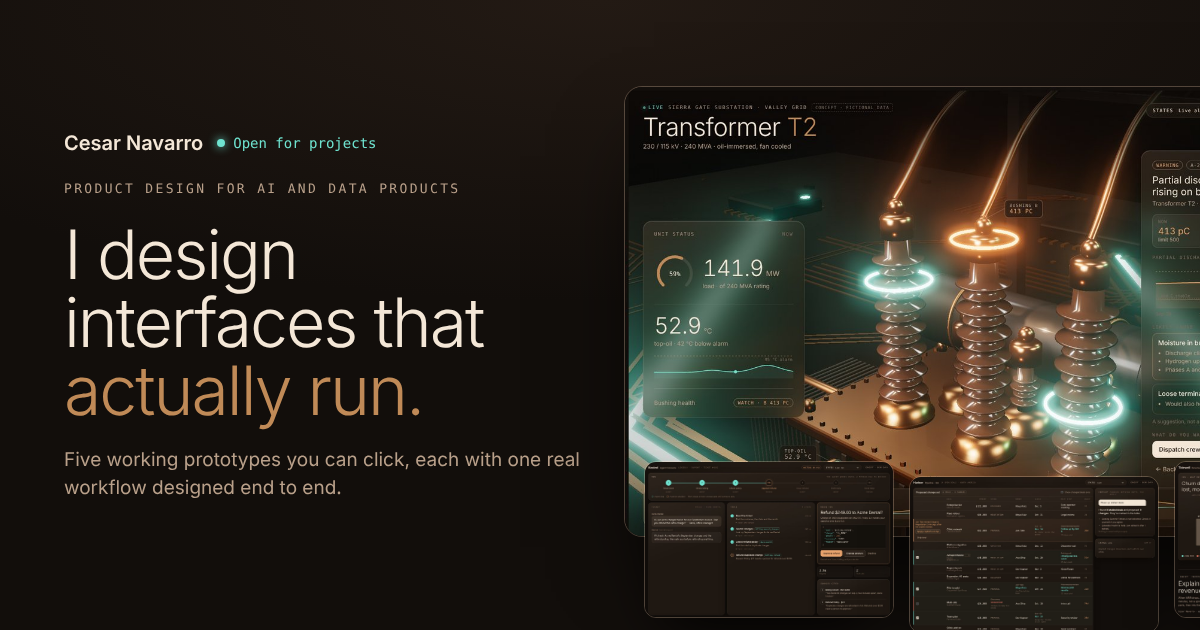
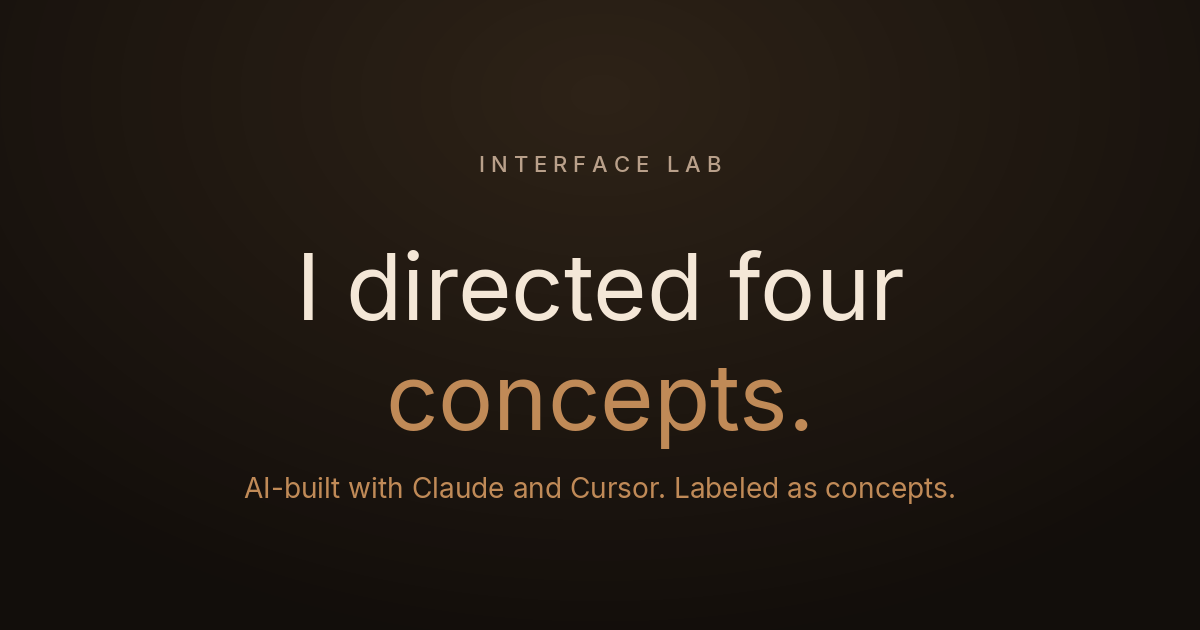
Align Interface Lab wording with the résumé's four directed concepts.
Decision OS stays on the site as an additional AI-built concept, outside that count. Credits now say the pieces were built with AI tools Cesar directed.

diff --git a/index.html b/index.html
@@ -4,23 +4,23 @@
 <meta charset="utf-8">
 <meta name="viewport" content="width=device-width, initial-scale=1, viewport-fit=cover">
 <title>Cesar Navarro · Interface Lab</title>
-<meta name="description" content="Cesar Navarro designs interfaces for AI and data products. Every case study is a working prototype you can click.">
+<meta name="description" content="Cesar Navarro directed four interactive workflow concepts on fictional data, AI-built with Claude and Cursor, with AI-assisted QA. Labeled as concepts.">
 <meta name="theme-color" content="#0F0C0A">
 <link rel="icon" href="favicon.svg" type="image/svg+xml">
 <meta property="og:type" content="website">
 <meta property="og:site_name" content="Cesar Navarro · Interface Lab">
 <meta property="og:title" content="Cesar Navarro · Interface Lab">
-<meta property="og:description" content="Cesar Navarro designs interfaces for AI and data products. Every case study is a working prototype you can click.">
+<meta property="og:description" content="Cesar Navarro directed four interactive workflow concepts on fictional data, AI-built with Claude and Cursor, with AI-assisted QA. Labeled as concepts.">
 <meta property="og:url" content="https://canaca.github.io/interface-lab/">
 <meta property="og:image" content="https://canaca.github.io/interface-lab/og-image.png">
-<meta property="og:image:alt" content="Cesar Navarro: I design interfaces that actually run, with five working prototypes">
+<meta property="og:image:alt" content="Cesar Navarro directed four interactive workflow concepts on fictional data. AI-built, labeled as concepts.">
 <meta property="og:image:width" content="1200">
 <meta property="og:image:height" content="630">
 <meta name="twitter:card" content="summary_large_image">
 <meta name="twitter:title" content="Cesar Navarro · Interface Lab">
-<meta name="twitter:description" content="Cesar Navarro designs interfaces for AI and data products. Every case study is a working prototype you can click.">
+<meta name="twitter:description" content="Cesar Navarro directed four interactive workflow concepts on fictional data, AI-built with Claude and Cursor, with AI-assisted QA. Labeled as concepts.">
 <meta name="twitter:image" content="https://canaca.github.io/interface-lab/og-image.png">
-<meta name="twitter:image:alt" content="Cesar Navarro: I design interfaces that actually run, with five working prototypes">
+<meta name="twitter:image:alt" content="Cesar Navarro directed four interactive workflow concepts on fictional data. AI-built, labeled as concepts.">
 <style>[hidden]{display:none!important}body{margin:0;background:#0F0C0A}</style>
 <link rel="preconnect" href="https://fonts.googleapis.com">
 <link rel="preconnect" href="https://fonts.gstatic.com" crossorigin>
@@ -113,7 +113,7 @@ pre.code .k{color:var(--accent)} pre.code .s{color:var(--cream)} pre.code .n{col
 @media (max-width:900px){.cs{grid-template-columns:minmax(0,1fr)}.cs dl{grid-template-columns:1fr}.cs dt{padding-top:0}}
 @media (prefers-reduced-motion:reduce){*{animation:none!important;transition:none!important}}
 
-/* Layout: thesis, then the work (Valley Grid featured, four cards), how I work, offers, contact. Same warm dark system as the prototypes. */
+/* Layout: thesis, then the work (Valley Grid featured, four cards), how I work, offers, contact. Same warm dark system as the concepts. */
 .hub>main{display:flex;flex-direction:column;gap:inherit}
 .hub{max-width:1240px;margin:0 auto;padding-inline:20px;padding-block:24px 48px;display:flex;flex-direction:column;gap:88px}
 nav{display:flex;align-items:center;gap:16px;flex-wrap:wrap;font-family:var(--mono);font-size:11.5px;color:var(--muted)}
@@ -228,53 +228,53 @@ details.csd dd{margin:0;color:var(--muted)}
 
   <main>
   <header class="hero">
-    <span class="eyebrow">Product design for AI and data products</span>
-    <h1>I design interfaces that <span>actually run.</span></h1>
-    <p>Every project below is a working prototype you can click, with one real workflow designed end to end, including the empty, loading and error states. Each is labeled honestly as a concept or a working build.</p>
+    <span class="eyebrow">Directed concept work for AI and data products</span>
+    <h1>I directed four <span>concepts.</span></h1>
+    <p>Four interactive workflow concepts on fictional data: Kestrel (AI support agent), Harbor (CRM deal cleanup), Valley Grid (utility operations), and Tidewell (SaaS revenue analytics). AI-built with Claude and Cursor, with AI-assisted QA, and labeled as concepts. Decision OS is an additional concept, outside that count.</p>
     <div class="cta"><a class="btn pri" href="#work">See the work</a><a class="btn" href="#contact">Start a project</a></div>
   </header>
 
   <section id="work">
-    <div class="sechead"><h2>Work</h2><span>Concept: fictional data, real working interface. Working build: a real product in development.</span></div>
+    <div class="sechead"><h2>Work</h2><span>Four concepts on fictional data, AI-built and labeled as concepts. Also in the lab is outside that count.</span></div>
     <article class="feature">
-      <a class="shot" href="valley-grid/" aria-label="Open prototype: Valley Grid, grid operations"><img src="img/grid-workflow.jpg" alt="Valley Grid: an operator investigates bushing B on a live 3D transformer" width="1200" height="750"><span class="go">Open prototype <span aria-hidden="true">↗</span></span></a>
+      <a class="shot" href="valley-grid/" aria-label="Open concept: Valley Grid, grid operations"><img src="img/grid-workflow.jpg" alt="Valley Grid: an operator investigates bushing B on a live 3D transformer" width="1200" height="750"><span class="go">Open concept <span aria-hidden="true">↗</span></span></a>
       <div class="info">
         <div class="kindrow"><span class="tag">Concept</span><span class="kind">Grid operations · live 3D</span></div>
         <h3>Helping grid operators act on an equipment alert</h3>
         <p class="value">From first warning to a crew on site, on a 3D model of the equipment itself.</p>
-        <dl class="meta"><div><dt>Role</dt><dd>Concept direction</dd></div><div><dt>Tools</dt><dd>AI-assisted build (Claude, Cursor)</dd></div></dl>
+        <dl class="meta"><div><dt>Role</dt><dd>Concept direction</dd></div><div><dt>Tools</dt><dd>Built with AI tools (Claude, Cursor), directed by Cesar · Blender scripts AI-generated</dd></div></dl>
         <details class="csd"><summary>Read the case study</summary><dl>
           <dt>Problem</dt><dd>Grid operators get alarms with numbers but no context, so deciding whether to send a crew means jumping between screens and phone calls.</dd>
           <dt>User</dt><dd>A control-room operator on shift, responsible for nine substations.</dd>
-          <dt>Decisions</dt><dd>The equipment is the interface. One panel holds the whole path. Evidence comes before advice. Every action confirms before it sends. Every state is designed.</dd>
-          <dt>Outcome</dt><dd>A working prototype of the full alert workflow, with a live 3D scene built with AI-assisted tooling (Claude, Cursor) running in the browser and a 15-second film mode. Not tested with real operators or live data.</dd>
+          <dt>Decisions</dt><dd>The equipment is the interface. One panel holds the whole path. Evidence comes before advice. Every action confirms before it sends. Every state is included.</dd>
+          <dt>Outcome</dt><dd>An AI-built concept of the full alert workflow, with a live 3D scene from AI tools (Claude, Cursor) running in the browser and a 15-second film mode. Blender scripts are AI-generated. Not tested with real operators or live data.</dd>
           <dt>Label</dt><dd>Concept. Fictional data, people and substation.</dd></dl></details>
       </div>
     </article>
     <div class="grid">
       <article class="proj">
-        <a class="shot" href="kestrel/" aria-label="Prototype + case study: Kestrel, AI agent console"><img src="img/kestrel.jpg" alt="Kestrel: an agent run paused at the refund approval gate" loading="lazy" width="1200" height="750"><span class="go">Prototype + case study <span aria-hidden="true">↗</span></span></a>
+        <a class="shot" href="kestrel/" aria-label="Concept + case study: Kestrel, AI agent console"><img src="img/kestrel.jpg" alt="Kestrel: an agent run paused at the refund approval gate" loading="lazy" width="1200" height="750"><span class="go">Concept + case study <span aria-hidden="true">↗</span></span></a>
         <div class="info"><div class="kindrow"><span class="tag">Concept</span><span class="kind">AI agent interface</span></div>
           <h3>Letting support teams trust an AI agent with refunds</h3><p class="value">The agent does the research. A person approves the money and the message.</p>
-          <dl class="meta"><div><dt>Role</dt><dd>Concept direction</dd></div><div><dt>Tools</dt><dd>HTML, CSS, JavaScript</dd></div></dl></div>
+          <dl class="meta"><div><dt>Role</dt><dd>Concept direction</dd></div><div><dt>Tools</dt><dd>Built with AI tools (Claude, Cursor), directed by Cesar · HTML, CSS, JavaScript, no build step</dd></div></dl></div>
       </article>
       <article class="proj">
-        <a class="shot" href="decision-os/" aria-label="Demo + case study: Decision OS, working build"><img src="img/dos.jpg" alt="Decision OS: imported items placed on The Chart" loading="lazy" width="1200" height="750"><span class="go">Demo + case study <span aria-hidden="true">↗</span></span></a>
-        <div class="info"><div class="kindrow"><span class="tag build">Working build</span><span class="kind">AI operating system</span></div>
+        <a class="shot" href="decision-os/" aria-label="Concept + case study: Decision OS, also in the lab"><img src="img/dos.jpg" alt="Decision OS: imported items placed on The Chart" loading="lazy" width="1200" height="750"><span class="go">Concept + case study <span aria-hidden="true">↗</span></span></a>
+        <div class="info"><div class="kindrow"><span class="tag build">Also in the lab</span><span class="kind">Additional concept · fictional data</span></div>
           <h3>Showing a founder where everything stands, without digging through chat</h3><p class="value">Turns ChatGPT history into current state: what you hold, what you wait on, what's decided.</p>
-          <dl class="meta"><div><dt>Role</dt><dd>Product owner, design direction</dd></div><div><dt>Status</dt><dd>ChatGPT import works. The Chart approved. Not in production. Demo uses fictional data.</dd></div></dl></div>
+          <dl class="meta"><div><dt>Role</dt><dd>Concept direction</dd></div><div><dt>Tools</dt><dd>Built with AI tools (Claude, Cursor), directed by Cesar · HTML, CSS, JavaScript, no build step</dd></div></dl></div>
       </article>
       <article class="proj">
-        <a class="shot" href="harbor-copilot/" aria-label="Prototype + case study: Harbor, CRM copilot"><img src="img/harbor.jpg" alt="Harbor: a proposed change set shown as diffs inside the deals table" loading="lazy" width="1200" height="750"><span class="go">Prototype + case study <span aria-hidden="true">↗</span></span></a>
+        <a class="shot" href="harbor-copilot/" aria-label="Concept + case study: Harbor, CRM copilot"><img src="img/harbor.jpg" alt="Harbor: a proposed change set shown as diffs inside the deals table" loading="lazy" width="1200" height="750"><span class="go">Concept + case study <span aria-hidden="true">↗</span></span></a>
         <div class="info"><div class="kindrow"><span class="tag">Concept</span><span class="kind">In-product AI copilot</span></div>
           <h3>Helping sales reps clean up stalled deals without losing control</h3><p class="value">Bulk changes from AI, reviewed in the table, with conflicts held and undo at every level.</p>
-          <dl class="meta"><div><dt>Role</dt><dd>Concept direction</dd></div><div><dt>Tools</dt><dd>HTML, CSS, JavaScript</dd></div></dl></div>
+          <dl class="meta"><div><dt>Role</dt><dd>Concept direction</dd></div><div><dt>Tools</dt><dd>Built with AI tools (Claude, Cursor), directed by Cesar · HTML, CSS, JavaScript, no build step</dd></div></dl></div>
       </article>
       <article class="proj">
-        <a class="shot" href="tidewell/" aria-label="Prototype + case study: Tidewell, revenue analytics"><img src="img/tidewell.jpg" alt="Tidewell: June's revenue drop broken into a waterfall" loading="lazy" width="1200" height="750"><span class="go">Prototype + case study <span aria-hidden="true">↗</span></span></a>
+        <a class="shot" href="tidewell/" aria-label="Concept + case study: Tidewell, revenue analytics"><img src="img/tidewell.jpg" alt="Tidewell: June's revenue drop broken into a waterfall" loading="lazy" width="1200" height="750"><span class="go">Concept + case study <span aria-hidden="true">↗</span></span></a>
         <div class="info"><div class="kindrow"><span class="tag">Concept</span><span class="kind">SaaS analytics</span></div>
           <h3>Explaining why monthly revenue moved</h3><p class="value">From "revenue fell" to the four accounts behind it and a win-back plan, in a few clicks.</p>
-          <dl class="meta"><div><dt>Role</dt><dd>Concept direction</dd></div><div><dt>Tools</dt><dd>HTML, SVG charts, JavaScript</dd></div></dl></div>
+          <dl class="meta"><div><dt>Role</dt><dd>Concept direction</dd></div><div><dt>Tools</dt><dd>Built with AI tools (Claude, Cursor), directed by Cesar · HTML, SVG charts, JavaScript, no build step</dd></div></dl></div>
       </article>
     </div>
   </section>

diff --git a/decision-os/index.html b/decision-os/index.html
@@ -4,13 +4,13 @@
 <meta charset="utf-8">
 <meta name="viewport" content="width=device-width, initial-scale=1, viewport-fit=cover">
 <title>Decision OS · Where everything stands</title>
-<meta name="description" content="Working build, shown with fictional demo data: import a sample ChatGPT export and see what you hold, wait on and have decided.">
+<meta name="description" content="Additional concept, outside the four workflow concepts. AI-built and directed by Cesar Navarro, on fictional data: import a sample ChatGPT export and see what you hold, wait on, and have decided.">
 <meta name="theme-color" content="#0F0C0A">
 <link rel="icon" href="../favicon.svg" type="image/svg+xml">
 <meta property="og:type" content="website">
 <meta property="og:site_name" content="Cesar Navarro · Interface Lab">
 <meta property="og:title" content="Decision OS · Where everything stands">
-<meta property="og:description" content="Working build, shown with fictional demo data: import a sample ChatGPT export and see what you hold, wait on and have decided.">
+<meta property="og:description" content="Additional concept, outside the four workflow concepts. AI-built and directed by Cesar Navarro, on fictional data: import a sample ChatGPT export and see what you hold, wait on, and have decided.">
 <meta property="og:url" content="https://canaca.github.io/interface-lab/decision-os/">
 <meta property="og:image" content="https://canaca.github.io/interface-lab/img/dos.jpg">
 <meta property="og:image:alt" content="Decision OS: imported items placed on The Chart">
@@ -18,7 +18,7 @@
 <meta property="og:image:height" content="750">
 <meta name="twitter:card" content="summary_large_image">
 <meta name="twitter:title" content="Decision OS · Where everything stands">
-<meta name="twitter:description" content="Working build, shown with fictional demo data: import a sample ChatGPT export and see what you hold, wait on and have decided.">
+<meta name="twitter:description" content="Additional concept, outside the four workflow concepts. AI-built and directed by Cesar Navarro, on fictional data: import a sample ChatGPT export and see what you hold, wait on, and have decided.">
 <meta name="twitter:image" content="https://canaca.github.io/interface-lab/img/dos.jpg">
 <meta name="twitter:image:alt" content="Decision OS: imported items placed on The Chart">
 <style>[hidden]{display:none!important}body{margin:0;background:#0F0C0A}</style>
@@ -172,7 +172,7 @@ body{background:var(--bg)}
     <div class="lenses" id="lenses" role="group" aria-label="Lens"><button data-l="attention" aria-pressed="true">Attention</button><button data-l="ceo" aria-pressed="false">CEO</button><button data-l="execution" aria-pressed="false">Execution</button><button data-l="network" aria-pressed="false">Network</button></div>
     <span class="sp"></span>
     <label class="tbtn">States <select id="demo" aria-label="Review a state"><option value="live">New workspace</option><option value="loading">Loading · import running</option><option value="partial">Error · some unreadable</option><option value="fail">Error · file won't open</option></select></label>
-    <span class="tag build">Working build · demo data</span>
+    <span class="tag build">Also in the lab · fictional data</span>
   </header>
 
   <p class="standing" id="standing" aria-live="polite"></p>
@@ -184,7 +184,7 @@ body{background:var(--bg)}
   </div>
 
   <section class="cs" aria-label="Case study">
-    <div><span class="tag build">Working build · not in production</span><h2>Showing a founder where everything stands, without digging through chat</h2>
+    <div><span class="tag build">Also in the lab · additional concept</span><h2>Showing a founder where everything stands, without digging through chat</h2>
       <p class="lede">Decision OS organizes work around current state: what you hold, what you're waiting on, and what's decided. This page is a demo of its import flow with fictional data.</p>
       <p class="contact" style="margin-top:20px">Cesar Navarro · <code>cnavarro.business@gmail.com</code></p></div>
     <dl>
@@ -196,11 +196,11 @@ body{background:var(--bg)}
         <li><b>Unknown is not none.</b> A missing value is shown as "not recorded," never as empty.</li>
         <li><b>Never merge for the user.</b> Possible duplicates are flagged and kept until the person decides.</li>
         <li><b>A fixed sentence, not generated text.</b> The Standing Sentence is built from set templates, with no scores or urgency.</li></ol></dd>
-      <dt>Outcome</dt><dd>The working build imports ChatGPT history. Its visual system, The Chart, was approved at Phase 9. It is not deployed to production.</dd>
-      <dt>Label</dt><dd>Working build. This page is a separate demo with fictional data, not the product.</dd>
+      <dt>Outcome</dt><dd>An AI-built concept that imports a fictional ChatGPT history sample onto The Chart. Directed by Cesar Navarro. Outside the four workflow concepts.</dd>
+      <dt>Label</dt><dd>Additional concept. Fictional data. AI-built and directed by Cesar Navarro. Outside the four workflow concepts on the hub.</dd>
     </dl>
   </section>
-  <div class="foot"><span>Interface Lab · Decision OS · demo of a working build</span><span>Product owner and design direction: Cesar Navarro</span></div>
+  <div class="foot"><span>Interface Lab · Decision OS · also in the lab</span><span>Built with AI tools (Claude, Cursor), directed by Cesar</span></div>
 </div>
 </main>
 <div class="toast" id="toast" role="status" aria-live="polite"><span id="toastMsg"></span></div>

diff --git a/harbor-copilot/index.html b/harbor-copilot/index.html
@@ -4,13 +4,13 @@
 <meta charset="utf-8">
 <meta name="viewport" content="width=device-width, initial-scale=1, viewport-fit=cover">
 <title>Harbor · Cleaning up stalled deals with AI</title>
-<meta name="description" content="Concept prototype: AI proposes bulk cleanup of stalled deals, shown as diffs in the table, with conflicts held and undo at every level.">
+<meta name="description" content="Directed concept, AI-built: AI proposes bulk cleanup of stalled deals, shown as diffs in the table, with conflicts held and undo at every level.">
 <meta name="theme-color" content="#0F0C0A">
 <link rel="icon" href="../favicon.svg" type="image/svg+xml">
 <meta property="og:type" content="website">
 <meta property="og:site_name" content="Cesar Navarro · Interface Lab">
 <meta property="og:title" content="Harbor · Cleaning up stalled deals with AI">
-<meta property="og:description" content="Concept prototype: AI proposes bulk cleanup of stalled deals, shown as diffs in the table, with conflicts held and undo at every level.">
+<meta property="og:description" content="Directed concept, AI-built: AI proposes bulk cleanup of stalled deals, shown as diffs in the table, with conflicts held and undo at every level.">
 <meta property="og:url" content="https://canaca.github.io/interface-lab/harbor-copilot/">
 <meta property="og:image" content="https://canaca.github.io/interface-lab/img/harbor.jpg">
 <meta property="og:image:alt" content="Harbor: proposed changes shown as diffs inside the deals table">
@@ -18,7 +18,7 @@
 <meta property="og:image:height" content="750">
 <meta name="twitter:card" content="summary_large_image">
 <meta name="twitter:title" content="Harbor · Cleaning up stalled deals with AI">
-<meta name="twitter:description" content="Concept prototype: AI proposes bulk cleanup of stalled deals, shown as diffs in the table, with conflicts held and undo at every level.">
+<meta name="twitter:description" content="Directed concept, AI-built: AI proposes bulk cleanup of stalled deals, shown as diffs in the table, with conflicts held and undo at every level.">
 <meta name="twitter:image" content="https://canaca.github.io/interface-lab/img/harbor.jpg">
 <meta name="twitter:image:alt" content="Harbor: proposed changes shown as diffs inside the deals table">
 <style>[hidden]{display:none!important}body{margin:0;background:#0F0C0A}</style>
@@ -191,7 +191,7 @@ tr.failed td{background:rgba(226,114,91,.07)}
   </div>
 
   <section class="cs" aria-label="Case study">
-    <div><span class="tag">Concept · prototype</span><h2>Helping sales reps clean up stalled deals without losing control</h2>
+    <div><span class="tag">Concept · AI-built</span><h2>Helping sales reps clean up stalled deals without losing control</h2>
       <p class="lede">The copilot proposes a change set across many deals. The rep sees every change inside the table, picks what to apply, and can undo any of it.</p>
       <p class="contact" style="margin-top:20px">Cesar Navarro · <code>cnavarro.business@gmail.com</code></p></div>
     <dl>
@@ -203,11 +203,11 @@ tr.failed td{background:rgba(226,114,91,.07)}
         <li><b>Conflicts are shown, not overwritten.</b> If a teammate edited a deal after the copilot looked, that deal is held until the rep chooses.</li>
         <li><b>Partial failure is precise.</b> It names the changes that failed and confirms the rest were applied.</li>
         <li><b>Undo at every level.</b> Undo one change from the log, or undo the whole set.</li></ol></dd>
-      <dt>Outcome</dt><dd>A clickable prototype of the full change-set flow: scan, review, bulk apply, conflict, partial failure and undo, plus empty and loading states. Not yet tested with real users or a real CRM.</dd>
+      <dt>Outcome</dt><dd>An AI-built concept of the full change-set flow: scan, review, bulk apply, conflict, partial failure and undo, plus empty and loading states. Not yet tested with real users or a real CRM.</dd>
       <dt>Label</dt><dd>Concept. The company, people and deals are fictional. The interface and its state flow are real and run in the browser.</dd>
     </dl>
   </section>
-  <div class="foot"><span>Interface Lab · Harbor · concept</span><span>Concept direction: Cesar Navarro</span></div>
+  <div class="foot"><span>Interface Lab · Harbor · concept</span><span>Built with AI tools (Claude, Cursor), directed by Cesar · HTML, CSS, JavaScript, no build step</span></div>
 </div>
 </main>
 <div class="toast" id="toast" role="status" aria-live="polite"><span id="toastMsg"></span><button id="toastUndo" hidden>Undo all</button></div>

diff --git a/tidewell/index.html b/tidewell/index.html
@@ -4,13 +4,13 @@
 <meta charset="utf-8">
 <meta name="viewport" content="width=device-width, initial-scale=1, viewport-fit=cover">
 <title>Tidewell · Why monthly revenue moved</title>
-<meta name="description" content="Concept prototype: see why June revenue fell, down to the four accounts behind it and a win-back task.">
+<meta name="description" content="Directed concept, AI-built: see why June revenue fell, down to the four accounts behind it and a win-back task.">
 <meta name="theme-color" content="#0F0C0A">
 <link rel="icon" href="../favicon.svg" type="image/svg+xml">
 <meta property="og:type" content="website">
 <meta property="og:site_name" content="Cesar Navarro · Interface Lab">
 <meta property="og:title" content="Tidewell · Why monthly revenue moved">
-<meta property="og:description" content="Concept prototype: see why June revenue fell, down to the four accounts behind it and a win-back task.">
+<meta property="og:description" content="Directed concept, AI-built: see why June revenue fell, down to the four accounts behind it and a win-back task.">
 <meta property="og:url" content="https://canaca.github.io/interface-lab/tidewell/">
 <meta property="og:image" content="https://canaca.github.io/interface-lab/img/tidewell.jpg">
 <meta property="og:image:alt" content="Tidewell: June revenue change broken into a waterfall">
@@ -18,7 +18,7 @@
 <meta property="og:image:height" content="750">
 <meta name="twitter:card" content="summary_large_image">
 <meta name="twitter:title" content="Tidewell · Why monthly revenue moved">
-<meta name="twitter:description" content="Concept prototype: see why June revenue fell, down to the four accounts behind it and a win-back task.">
+<meta name="twitter:description" content="Directed concept, AI-built: see why June revenue fell, down to the four accounts behind it and a win-back task.">
 <meta name="twitter:image" content="https://canaca.github.io/interface-lab/img/tidewell.jpg">
 <meta name="twitter:image:alt" content="Tidewell: June revenue change broken into a waterfall">
 <style>[hidden]{display:none!important}body{margin:0;background:#0F0C0A}</style>
@@ -152,7 +152,7 @@ pre.code .k{color:var(--accent)} pre.code .s{color:var(--cream)} pre.code .n{col
   </div>
 
   <section class="cs" aria-label="Case study">
-    <div><span class="tag">Concept · prototype</span><h2>Explaining why monthly revenue moved</h2>
+    <div><span class="tag">Concept · AI-built</span><h2>Explaining why monthly revenue moved</h2>
       <p class="lede">When MRR drops, a finance or success lead needs the cause in minutes, not a spreadsheet afternoon. The month breaks into its parts, then into the accounts behind them.</p>
       <p class="contact" style="margin-top:20px">Cesar Navarro · <code>cnavarro.business@gmail.com</code></p></div>
     <dl>
@@ -164,11 +164,11 @@ pre.code .k{color:var(--accent)} pre.code .s{color:var(--cream)} pre.code .n{col
         <li><b>Drill from cause to customer.</b> One click from the churn step to the accounts, and one more to the warning signs they showed.</li>
         <li><b>Honest about the data.</b> If billing data is incomplete, the view says so before anyone acts on it.</li>
         <li><b>End in an action.</b> The explanation turns into a win-back task with an owner, confirmed before it's created.</li></ol></dd>
-      <dt>Outcome</dt><dd>A clickable prototype of the full path, from the drop to the bridge, the accounts, the signals and the task, with empty, loading, incomplete-data and task-error states. Not yet tested with real users or real billing data.</dd>
+      <dt>Outcome</dt><dd>An AI-built concept of the full path, from the drop to the bridge, the accounts, the signals and the task, with empty, loading, incomplete-data and task-error states. Not yet tested with real users or real billing data.</dd>
       <dt>Label</dt><dd>Concept. The company, accounts and numbers are fictional. The interface and its state flow are real and run in the browser.</dd>
     </dl>
   </section>
-  <div class="foot"><span>Interface Lab · Tidewell · concept</span><span>Concept direction: Cesar Navarro</span></div>
+  <div class="foot"><span>Interface Lab · Tidewell · concept</span><span>Built with AI tools (Claude, Cursor), directed by Cesar · HTML, SVG charts, JavaScript, no build step</span></div>
 </div>
 </main>
 <div class="toast" id="toast" role="status" aria-live="polite"><span id="toastMsg"></span></div>

diff --git a/kestrel/index.html b/kestrel/index.html
@@ -4,13 +4,13 @@
 <meta charset="utf-8">
 <meta name="viewport" content="width=device-width, initial-scale=1, viewport-fit=cover">
 <title>Kestrel · Trusting an AI agent with refunds</title>
-<meta name="description" content="Concept prototype: an AI support agent works a refund ticket, and a person approves the money and the reply.">
+<meta name="description" content="Directed concept, AI-built: an AI support agent works a refund ticket, and a person approves the money and the reply.">
 <meta name="theme-color" content="#0F0C0A">
 <link rel="icon" href="../favicon.svg" type="image/svg+xml">
 <meta property="og:type" content="website">
 <meta property="og:site_name" content="Cesar Navarro · Interface Lab">
 <meta property="og:title" content="Kestrel · Trusting an AI agent with refunds">
-<meta property="og:description" content="Concept prototype: an AI support agent works a refund ticket, and a person approves the money and the reply.">
+<meta property="og:description" content="Directed concept, AI-built: an AI support agent works a refund ticket, and a person approves the money and the reply.">
 <meta property="og:url" content="https://canaca.github.io/interface-lab/kestrel/">
 <meta property="og:image" content="https://canaca.github.io/interface-lab/img/kestrel.jpg">
 <meta property="og:image:alt" content="Kestrel: an agent run paused at the refund approval step">
@@ -18,7 +18,7 @@
 <meta property="og:image:height" content="750">
 <meta name="twitter:card" content="summary_large_image">
 <meta name="twitter:title" content="Kestrel · Trusting an AI agent with refunds">
-<meta name="twitter:description" content="Concept prototype: an AI support agent works a refund ticket, and a person approves the money and the reply.">
+<meta name="twitter:description" content="Directed concept, AI-built: an AI support agent works a refund ticket, and a person approves the money and the reply.">
 <meta name="twitter:image" content="https://canaca.github.io/interface-lab/img/kestrel.jpg">
 <meta name="twitter:image:alt" content="Kestrel: an agent run paused at the refund approval step">
 <style>[hidden]{display:none!important}body{margin:0;background:#0F0C0A}</style>
@@ -208,7 +208,7 @@ pre.code .k{color:var(--accent)} pre.code .s{color:var(--cream)} pre.code .n{col
   </div>
 
   <section class="cs" aria-label="Case study">
-    <div><span class="tag">Concept · prototype</span><h2>Letting support teams trust an AI agent with refunds</h2>
+    <div><span class="tag">Concept · AI-built</span><h2>Letting support teams trust an AI agent with refunds</h2>
       <p class="lede">An agent finds a double charge, cites the policy it used, and stops for a person before it moves money or emails a customer.</p>
       <p class="contact" style="margin-top:20px">Cesar Navarro · <code>cnavarro.business@gmail.com</code></p></div>
     <dl>
@@ -220,11 +220,11 @@ pre.code .k{color:var(--accent)} pre.code .s{color:var(--cream)} pre.code .n{col
         <li><b>Every claim cites a source.</b> The billing record and the policy line sit next to the decision.</li>
         <li><b>Nothing leaves without a person.</b> The refund and the customer reply each have their own gate. Drafts say "not sent."</li>
         <li><b>Failures say what did not happen.</b> "Nothing was changed" and "Not sent. Draft saved."</li></ol></dd>
-      <dt>Outcome</dt><dd>A clickable prototype of the full run: ticket, tool calls, approval, refund, reply and send, with empty, loading, tool error and send error states. Not yet tested with real users or a real billing system.</dd>
+      <dt>Outcome</dt><dd>An AI-built concept of the full run: ticket, tool calls, approval, refund, reply and send, with empty, loading, tool error and send error states. Not yet tested with real users or a real billing system.</dd>
       <dt>Label</dt><dd>Concept. The company, customer and data are fictional. The interface and its state flow are real and run in the browser.</dd>
     </dl>
   </section>
-  <div class="foot"><span>Interface Lab · Kestrel · concept</span><span>Concept direction: Cesar Navarro</span></div>
+  <div class="foot"><span>Interface Lab · Kestrel · concept</span><span>Built with AI tools (Claude, Cursor), directed by Cesar · HTML, CSS, JavaScript, no build step</span></div>
 </div>
 </main>
 <div class="toast" id="toast" role="status" aria-live="polite"><span id="toastMsg"></span></div>

diff --git a/valley-grid/index.html b/valley-grid/index.html
@@ -4,13 +4,13 @@
 <meta charset="utf-8">
 <meta name="viewport" content="width=device-width, initial-scale=1, viewport-fit=cover">
 <title>Valley Grid · Equipment alert on a live 3D transformer</title>
-<meta name="description" content="Concept prototype: a grid operator investigates an equipment alert on a live 3D transformer, from first warning to a crew on site.">
+<meta name="description" content="Directed concept, AI-built: a grid operator investigates an equipment alert on a live 3D transformer, from first warning to a crew on site.">
 <meta name="theme-color" content="#0F0C0A">
 <link rel="icon" href="../favicon.svg" type="image/svg+xml">
 <meta property="og:type" content="website">
 <meta property="og:site_name" content="Cesar Navarro · Interface Lab">
 <meta property="og:title" content="Valley Grid · Equipment alert on a live 3D transformer">
-<meta property="og:description" content="Concept prototype: a grid operator investigates an equipment alert on a live 3D transformer, from first warning to a crew on site.">
+<meta property="og:description" content="Directed concept, AI-built: a grid operator investigates an equipment alert on a live 3D transformer, from first warning to a crew on site.">
 <meta property="og:url" content="https://canaca.github.io/interface-lab/valley-grid/">
 <meta property="og:image" content="https://canaca.github.io/interface-lab/img/grid-workflow.jpg">
 <meta property="og:image:alt" content="Valley Grid: an operator investigates bushing B on a live 3D transformer">
@@ -18,7 +18,7 @@
 <meta property="og:image:height" content="750">
 <meta name="twitter:card" content="summary_large_image">
 <meta name="twitter:title" content="Valley Grid · Equipment alert on a live 3D transformer">
-<meta name="twitter:description" content="Concept prototype: a grid operator investigates an equipment alert on a live 3D transformer, from first warning to a crew on site.">
+<meta name="twitter:description" content="Directed concept, AI-built: a grid operator investigates an equipment alert on a live 3D transformer, from first warning to a crew on site.">
 <meta name="twitter:image" content="https://canaca.github.io/interface-lab/img/grid-workflow.jpg">
 <meta name="twitter:image:alt" content="Valley Grid: an operator investigates bushing B on a live 3D transformer">
 <style>[hidden]{display:none!important}body{margin:0;background:#0F0C0A}</style>
@@ -242,7 +242,7 @@ button,input,select{font:inherit;color:inherit}
       <div class="lg"><span><i></i>Load</span><span><i class="t"></i>Oil temp</span><button class="tbtn" id="play" style="padding:5px 10px;margin-top:4px">❚❚ Pause</button></div>
     </section>
   </div>
-  <div class="endcard" id="endcard"><b>Investigate an equipment alert</b><span>Valley Grid Ops · concept by Cesar Navarro</span></div>
+  <div class="endcard" id="endcard"><b>Investigate an equipment alert</b><span>Valley Grid Ops · concept directed by Cesar Navarro</span></div>
   <button class="tbtn skip" id="skip" hidden>Skip intro</button>
   <div class="credit">CONCEPT DIRECTION: CESAR NAVARRO</div>
 </div>

diff --git a/README.md b/README.md
@@ -1,6 +1,6 @@
 # Interface Lab
 
-Live, working interface concepts for AI and data products, directed by Cesar Navarro.
+Live interface concepts for AI and data products, directed by Cesar Navarro.
 
 Every piece here runs in the browser. Click, drag, approve, undo, and see what happens.
 
@@ -10,7 +10,7 @@ Every piece here runs in the browser. Click, drag, approve, undo, and see what h
 | --- | --- | --- |
 | [Valley Grid Operations](valley-grid/) | Concept | Investigate an equipment alert on a live 3D transformer, from alert to crew sent ([case study](valley-grid/CASE-STUDY.md)) |
 | [Kestrel Agent Console](kestrel/) | Concept | An AI agent handles a refund ticket. A person approves the money and the reply. |
-| [Decision OS](decision-os/) | Working build | Import a sample ChatGPT export and see where everything stands. Demo uses fictional data. |
+| [Decision OS](decision-os/) | Also in the lab | Additional AI-built concept on fictional data, outside the four. Import a sample ChatGPT export and see where everything stands. |
 | [Harbor CRM Copilot](harbor-copilot/) | Concept | Bulk deal cleanup from AI, shown as diffs in the table, with conflicts and undo |
 | [Tidewell Revenue Pulse](tidewell/) | Concept | Why June revenue fell, down to the four accounts and a win-back task |
 
@@ -22,7 +22,7 @@ Plain HTML, CSS, and JavaScript. Three.js for 3D, used only on Valley Grid, wher
 
 ## How these were made
 
-These are concepts directed by Cesar Navarro and built with AI tools (Claude, Cursor) under his direction: he set the problem, user, flow and design decisions, and reviewed every state. The code and 3D assets were generated with those tools.
+Cesar Navarro directed four interactive workflow concepts on fictional data: Kestrel (AI support agent), Harbor (CRM deal cleanup), Valley Grid (utility operations), and Tidewell (SaaS revenue analytics). They were built with AI tools (Claude, Cursor) with AI-assisted QA. He set the problem, user, flow, and design decisions, and reviewed every state. Decision OS is an additional AI-built concept, outside that count. The code and 3D assets were generated with those tools.
 
 The `blender/` folder holds the AI-generated Python scripts used to produce Valley Grid's 3D scene (`build_t2.py` for Transformer T2, `board2.py` for the circuit-board scene, `heroes.py` for hero objects). They run with Blender's Python package (`pip install bpy`, then `python3 blender/build_t2.py --still out.png`).
 

diff --git a/valley-grid/CASE-STUDY.md b/valley-grid/CASE-STUDY.md
@@ -11,12 +11,12 @@ A control-room operator on shift, responsible for nine substations, who needs to
 2. **One panel, one path.** Alert, evidence, likely cause, action, confirmation and resolution all happen in the same panel, so the operator never loses context.
 3. **Evidence before advice.** Readings and the 7-day trend come first. The likely cause is labeled as a suggestion, not a diagnosis.
 4. **Every action confirms.** Dispatch, acknowledge and escalate each show what will happen before anything is sent. A failed dispatch says nothing was sent and keeps the operator's choices.
-5. **Every state is designed.** Empty, loading, data error and dispatch error each have their own screen. Use the States menu to review them.
+5. **Every state is included.** Empty, loading, data error and dispatch error each have their own screen. Use the States menu to review them.
 6. **A quiet palette, one accent,** so warnings read instantly.
 
 ## Concept vs real
 **Concept:** all data, people, crews and the substation are fictional.
-**Real:** the working interface, the live 3D scene (built with AI-assisted tooling: Claude, Cursor) running in Three.js, the full state flow, and graphics quality that adapts to laptop hardware.
+**Real:** the concept running in the browser, the live 3D scene (AI-built with Claude and Cursor, directed by Cesar) running in Three.js, the full state flow, and graphics quality that adapts to laptop hardware. The Blender scripts that produced the 3D scene are AI-generated.
 **Not built:** live sensor data, sign-in, and a real crew dispatch integration.
 
 ---
